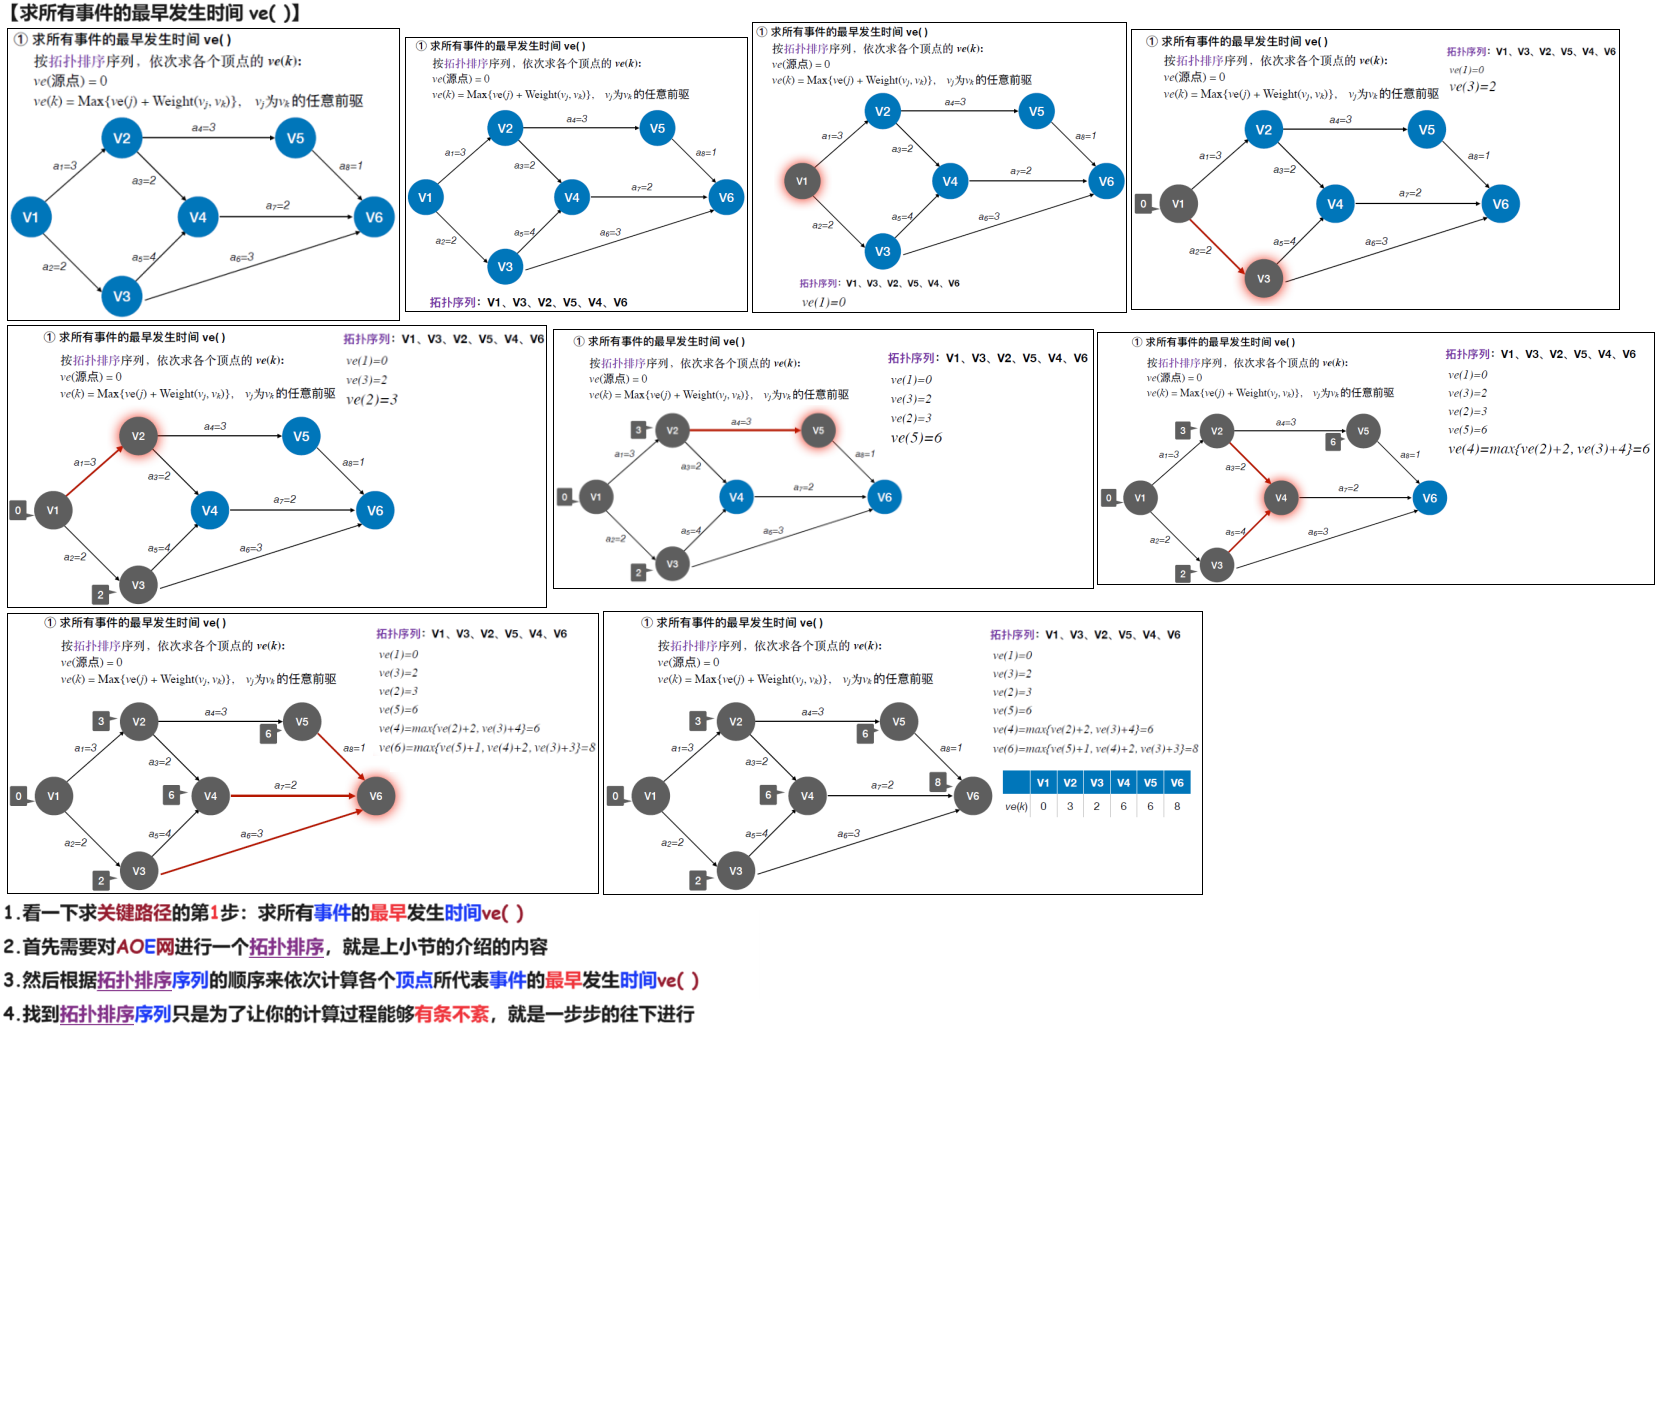
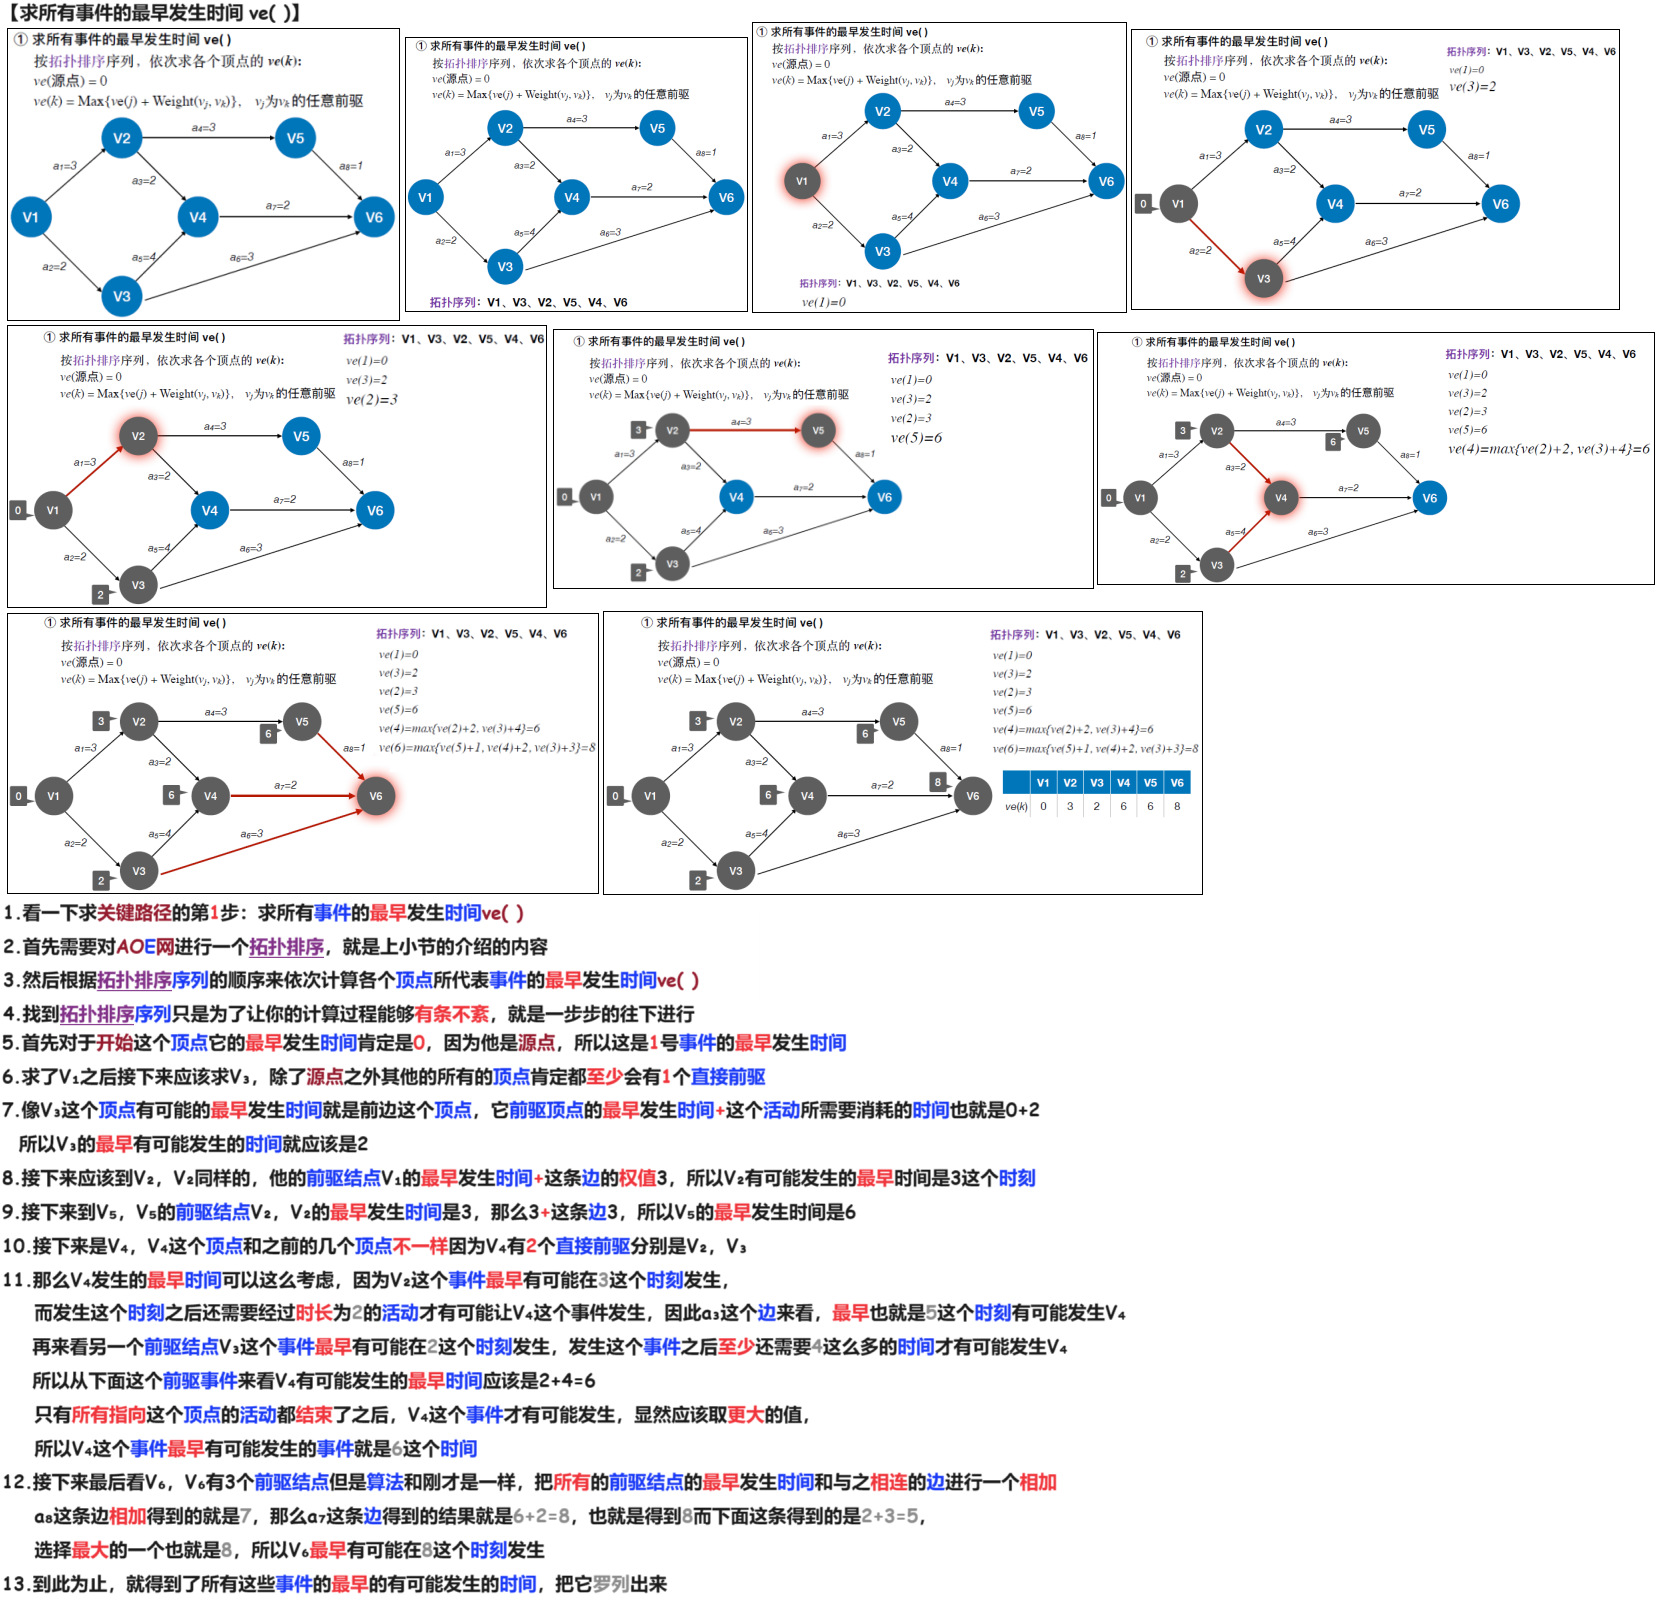
240330

Changed region(s): [[0.0, 0.0, 0.9837, 1.0], [0.953, 0.3099, 0.9837, 0.3408]]

diff --git a/01 初试/02 DS/02 24 王道 基础/06 图/04 图的应用/07 关键路径 240330/02 Doc.md b/01 初试/02 DS/02 24 王道 基础/06 图/04 图的应用/07 关键路径 240330/02 Doc.md
@@ -22,4 +22,4 @@
 
 # 04 求所有事件的最早发生时间 ve( )
 
-<img src="https://cvp.oss-cn-shanghai.aliyuncs.com/picgo/202403301023460.png" alt="image-20240330102353330" style="zoom:50%;" />
+<img src="https://cvp.oss-cn-shanghai.aliyuncs.com/picgo/202403301716266.png" alt="image-20240330171600962" style="zoom:50%;" />
